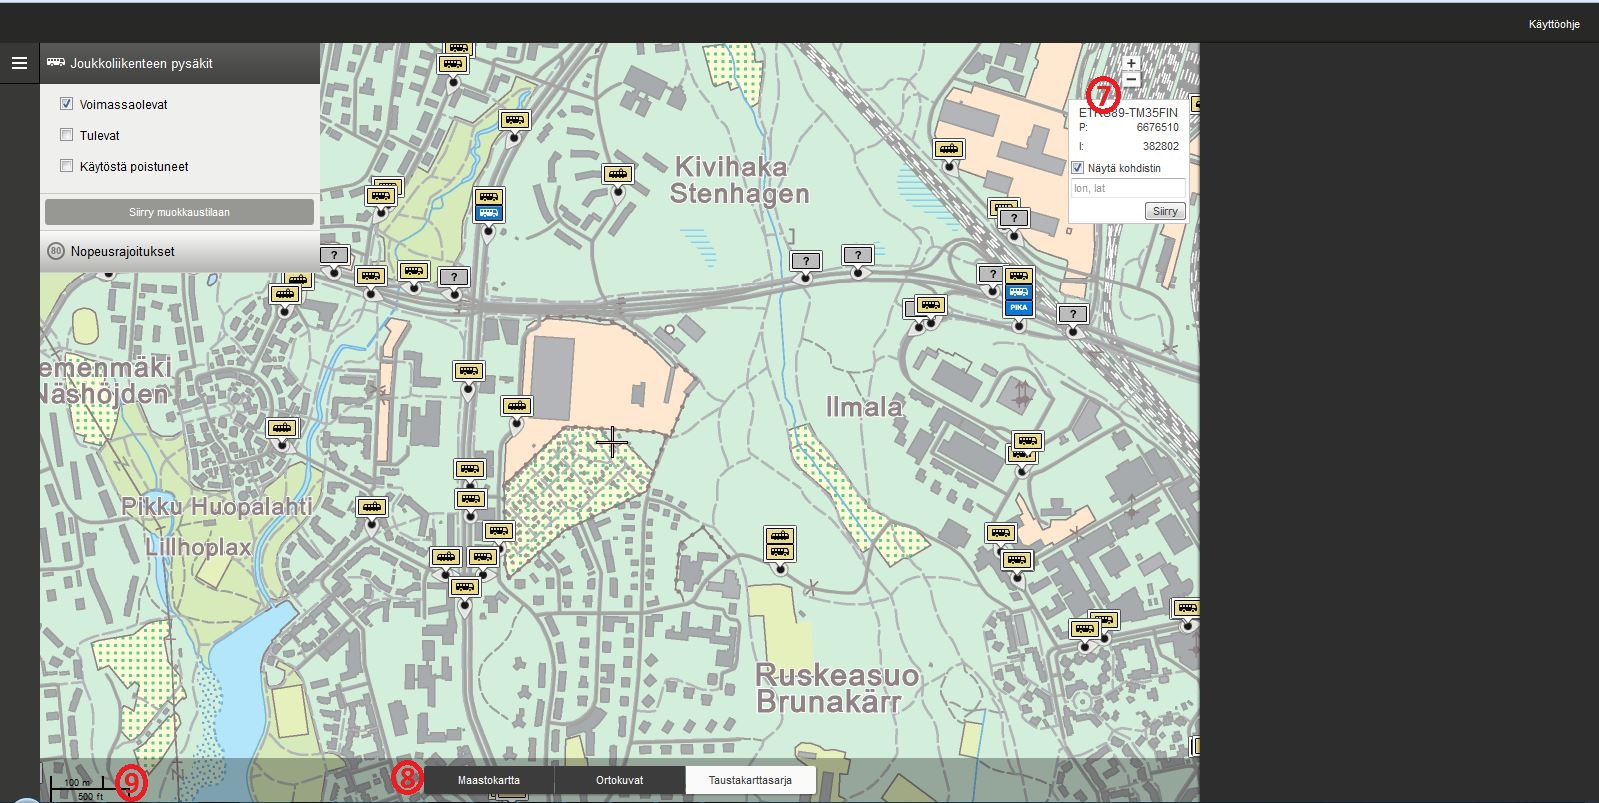
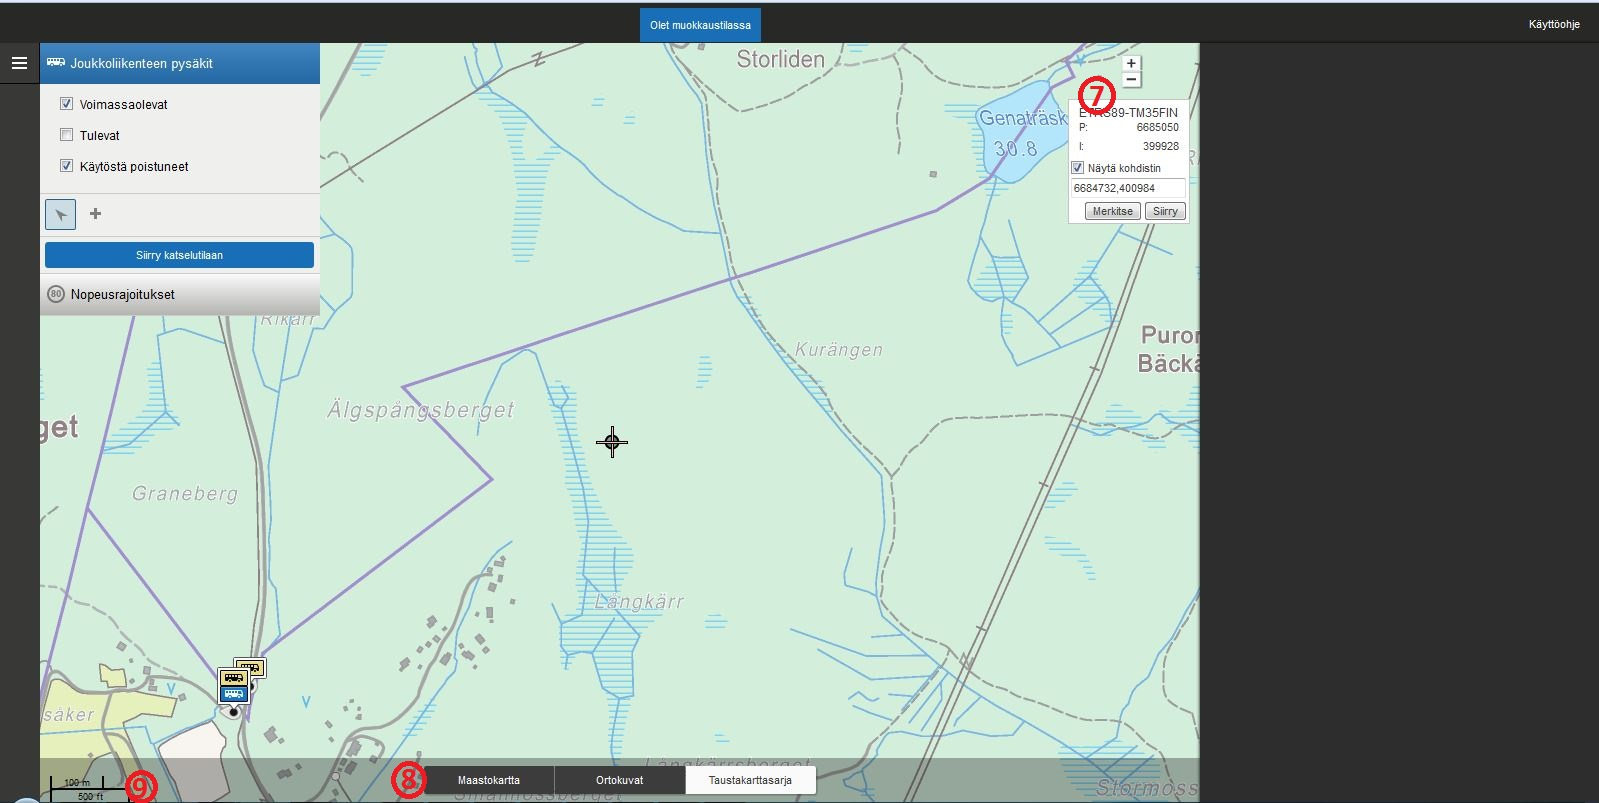
add marker to manual

diff --git a/UI/manual/index.md b/UI/manual/index.md
@@ -114,7 +114,7 @@ Kartan mittakaavatasoa muutetaan joko hiiren rullalla, tuplaklikkaamalla, Shift+
 
 ####Koordinaattihaku####
 
-K&auml;ytt&ouml;liittym&auml;ss&auml; on koordinaattihaku (7), joka keskitt&auml;&auml; kartan keskipisteen haettuun pisteeseen. Keskipiste on merkitty kartalle ristin&auml;. Ristin saa pois n&auml;kyvist&auml; klikkaamalla "N&auml;yt&auml; kohdistin"-valinnan tyhj&auml;ksi. Sy&ouml;tekentt&auml;&auml;n kirjoitetaan kokonaislukuina metrin tarkkuudella pohjois-koordinaatti (7 merkki&auml;) ja it&auml;-koordinaatti (6 merkki&auml;) ETRS35FIN-koordinaattij&auml;rjestelm&auml;ss&auml;. Koordinaatit erotetaan toisistaan pilkulla. Pilkun j&auml;lkeen ei j&auml;tet&auml; v&auml;li&auml;, jotta sovellus pystyy lukemaan koordinaatit. Esimerkiksi:
+K&auml;ytt&ouml;liittym&auml;ss&auml; on koordinaattihaku (7), joka keskitt&auml;&auml; kartan keskipisteen haettuun pisteeseen. Keskipiste on merkitty kartalle ristin&auml;. Siirry-painike keskitt&auml;&auml; kartan haettuun pisteeseen ja Merkitse-painike luo markerin haettuun pisteeseen. Markeri j&auml;&auml; kartalle, kunnes sille hakee uuden sijainnin. Ristin saa pois n&auml;kyvist&auml; klikkaamalla "N&auml;yt&auml; kohdistin"-valinnan tyhj&auml;ksi. Sy&ouml;tekentt&auml;&auml;n kirjoitetaan kokonaislukuina metrin tarkkuudella pohjois-koordinaatti (7 merkki&auml;) ja it&auml;-koordinaatti (6 merkki&auml;) ETRS35FIN-koordinaattij&auml;rjestelm&auml;ss&auml;. Koordinaatit erotetaan toisistaan pilkulla. Pilkun j&auml;lkeen ei j&auml;tet&auml; v&auml;li&auml;, jotta sovellus pystyy lukemaan koordinaatit. Esimerkiksi:
 
 ```
 6901839,435323
